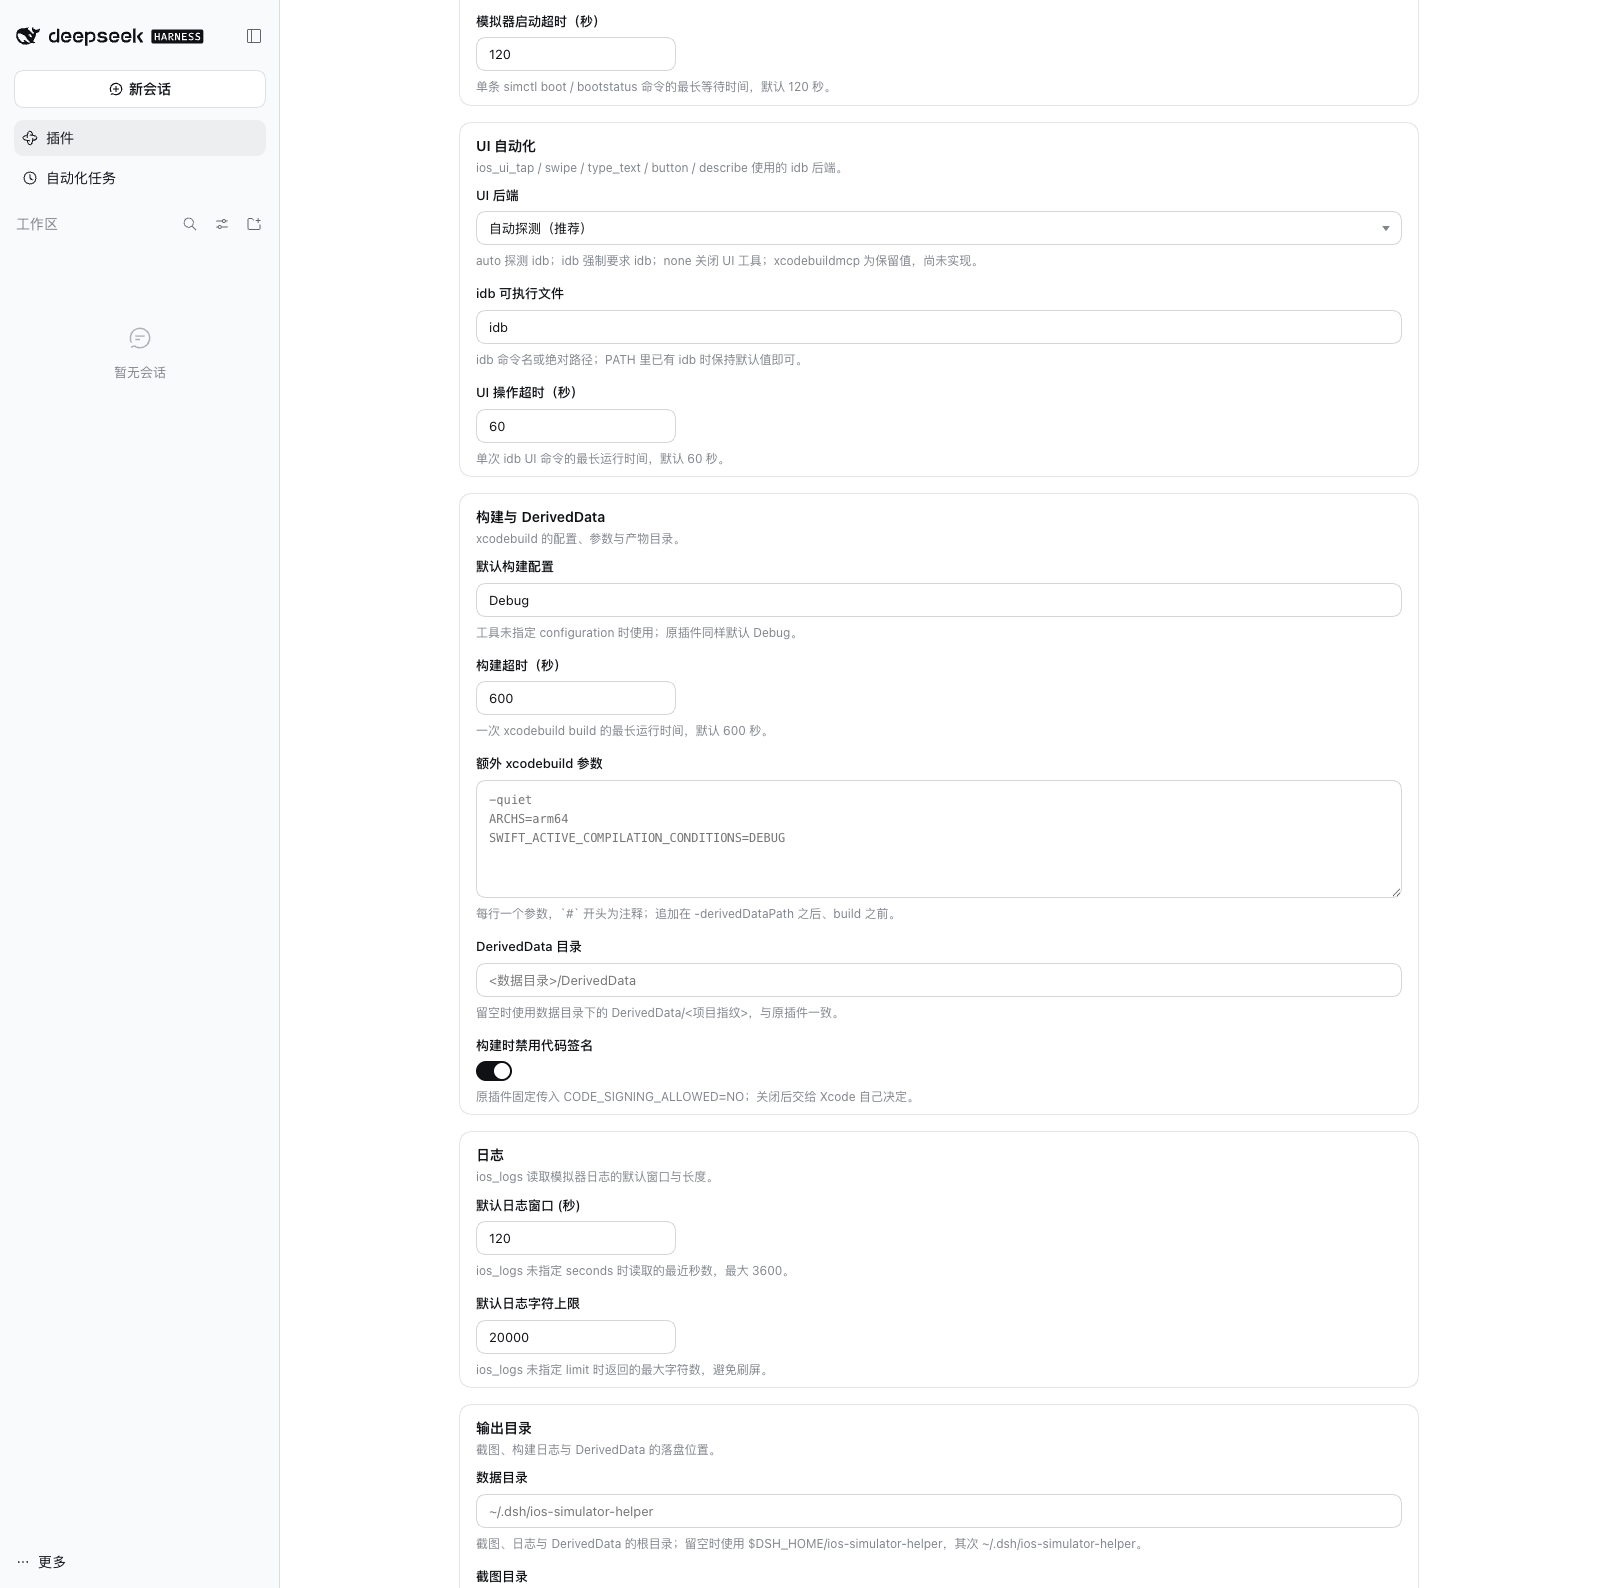
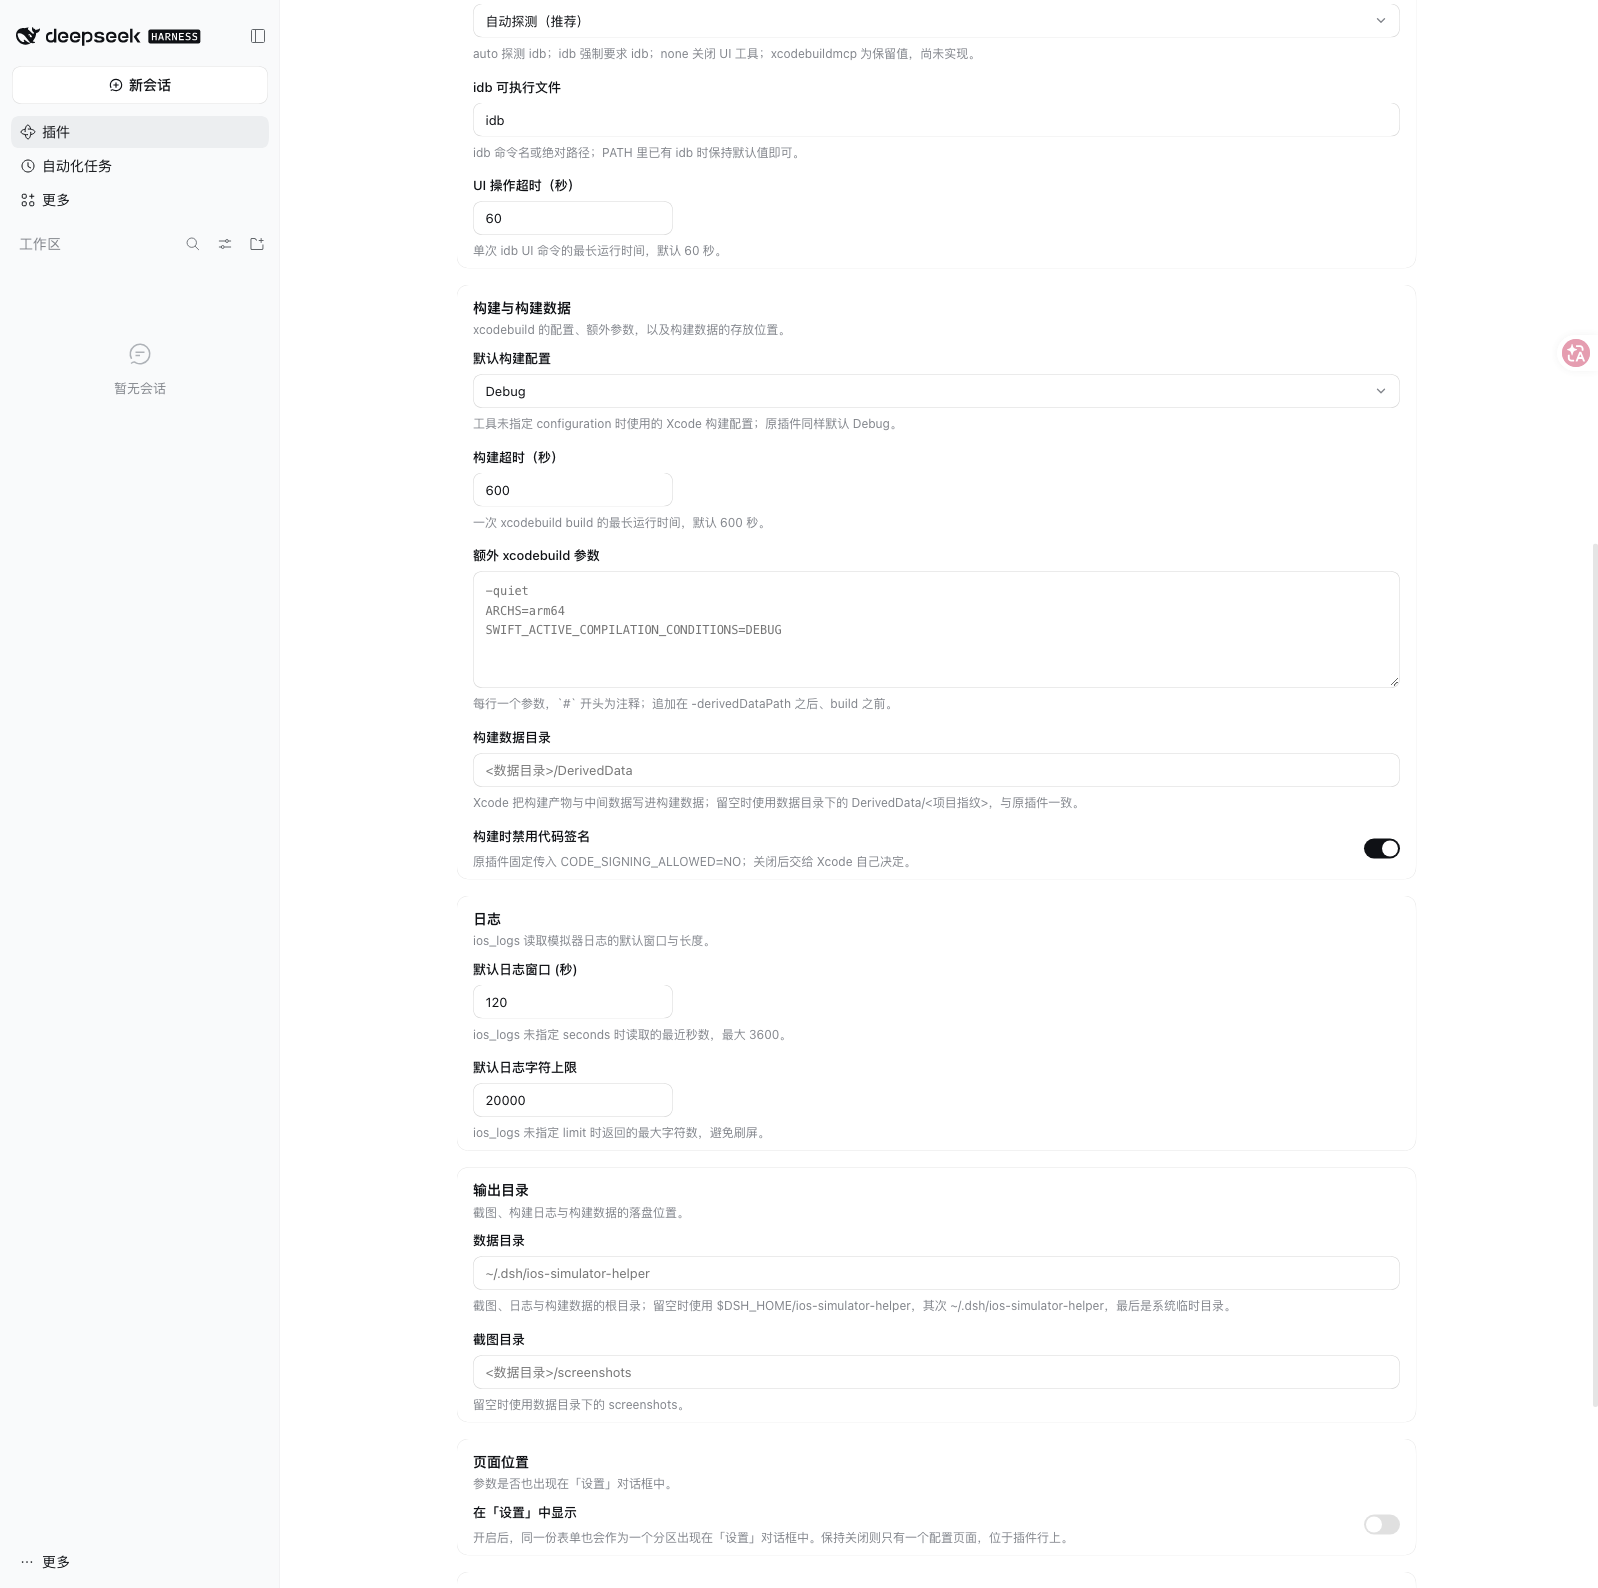
docs: recapture the marketplace screenshots from the row's page
The four shots still showed the form inside the bundle's detail view and predated both the move to the plugin row's own page and the one-simulator-at-a-time switch. The market reads the README and its screenshots as claims, so a stale page is a regression.\n\n- Boot a fresh, isolated DSH 0.2.2-rc.5 web instance with this plugin linked, open the row's Configure page in the Chinese locale, and recapture the four scroll positions at 1598x1588.\n- Refresh both READMEs: name the version and the row's page, drop the stale 'predate the move' note, and describe the card contents the shots now show.\n\nVerified: pnpm run check all green -- 250 tests, bundle consistency, the real mount, the type gate; the manifest screenshot test confirms the four paths exist inside the repository.

diff --git a/README.md b/README.md
@@ -135,25 +135,23 @@ The original plugin's `userConfig` (`default_device`, `ui_backend`) and its envi
 
 ## Screenshots
 
-All four are the live page in DSH harness 0.2.1-rc.2, in the order you scroll it — nothing is mocked up. They show the 1.1.0 card layout and the timeouts in whole seconds; the save bar only appears while an edit is staged, so it is not in these shots. The window ran the Chinese locale, so the card headings are Chinese while every field name is the same in both languages.
-
-> These shots predate the move to the plugin row's own page: they show the form inside the bundle's detail view, which is where it used to render. The page itself — the cards, the fields and the save bar — is unchanged; only where it opens has moved. They will be re-captured from the row's **Configure** page.
+All four are the live page in DSH harness 0.2.2-rc.5, in the order you scroll it — nothing is mocked up. They show the current card layout and the timeouts in whole seconds; the save bar only appears while an edit is staged, so it is not in these shots. The window ran the Chinese locale, so the card headings are Chinese while every field name is the same in both languages. The form is on the plugin row's own page, opened through the row's **Configure** control.
 
 **1. Simulator and device** — the plugin heading and description, then the fields every `ios_*` call reads:
 
-![The iOS Simulator Helper page in the Plugins panel: the plugin title, version and description, then the simulator-and-device card with the default device, default runtime, auto boot, auto open and the boot timeout](https://raw.githubusercontent.com/zhz8888/dsh-ios-simulator-helper/main/assets/settings-page-1-simulator-and-device.png)
+![The iOS Simulator Helper configuration page: the plugin title and description, then the simulator-and-device card with the default device, default runtime, auto boot, the one-simulator-at-a-time rule, auto open and the boot timeout](https://raw.githubusercontent.com/zhz8888/dsh-ios-simulator-helper/main/assets/settings-page-1-simulator-and-device.png)
 
 **2. UI automation and builds** — the `idb` backend and its timeout, then the `xcodebuild` configuration, build timeout and extra arguments:
 
-![The form scrolled to UI automation and build settings: UI backend, idb binary, UI timeout, default configuration, build timeout and the extra xcodebuild arguments](https://raw.githubusercontent.com/zhz8888/dsh-ios-simulator-helper/main/assets/settings-page-2-ui-automation-and-build.png)
+![The form scrolled to UI automation and build settings: UI backend, idb binary, UI timeout, default configuration, build timeout, the extra xcodebuild arguments, the DerivedData directory and the code-signing switch](https://raw.githubusercontent.com/zhz8888/dsh-ios-simulator-helper/main/assets/settings-page-2-ui-automation-and-build.png)
 
-**3. Build tail and logs** — the DerivedData directory and the code-signing switch, then the `ios_logs` window and character limit, and the start of the output directories:
+**3. Logs and output directories** — the `ios_logs` window and character limit, then where screenshots, logs and DerivedData land:
 
-![The form scrolled further: the DerivedData directory and code signing during builds, then the default log window and character limit, and the start of the data and screenshot directories](https://raw.githubusercontent.com/zhz8888/dsh-ios-simulator-helper/main/assets/settings-page-3-logs-and-output.png)
+![The form scrolled further: the default log window and character limit, then the data and screenshot directories](https://raw.githubusercontent.com/zhz8888/dsh-ios-simulator-helper/main/assets/settings-page-3-logs-and-output.png)
 
-**4. Output directories and the host check** — where screenshots, logs and DerivedData land, then the macOS verdict with the two detection buttons:
+**4. Page location and the host check** — whether the form also appears in Settings, then the macOS verdict with the two detection buttons:
 
-![The bottom of the form: the data and screenshot directories, then the host check reading "macOS — supported (darwin/arm64)" with the run-diagnostic and refresh buttons](https://raw.githubusercontent.com/zhz8888/dsh-ios-simulator-helper/main/assets/settings-page-4-host-check.png)
+![The bottom of the form: the page-location switch, then the host check reading "macOS — supported (darwin/arm64)" with the run-diagnostic and refresh buttons and the discovered Xcode, runtime and device summary](https://raw.githubusercontent.com/zhz8888/dsh-ios-simulator-helper/main/assets/settings-page-4-host-check.png)
 
 `screenshots.json` lists these four files in this order next to `package.json` in the repository, which is how a plugin market finds them.
 

diff --git a/README.zh-CN.md b/README.zh-CN.md
@@ -135,25 +135,23 @@ dsh plugin --profile <profile> add @zhz8888/dsh-ios-simulator-helper \
 
 ## 截图
 
-四张都是 DSH harness 0.2.1-rc.2 里这份代码跑起来的真实页面，按从上到下的滚动顺序排列，没有做图。展示的是 1.1.0 的卡片式布局与按整秒填写的超时；保存操作条只在有暂存改动时出现，因此这几张里看不到它。截图时窗口用的是中文界面，卡片标题为中文，字段名两种语言一致。
-
-> 这几张截图早于「移到插件行自己的页面」这次改动：它们展示的是表单渲染在 bundle 详情页里的旧位置。页面本身——卡片、字段与保存栏——没有变化，变化的只是打开位置。稍后会从该行的 **Configure** 页面重新截图。
+四张都是 DSH harness 0.2.2-rc.5 里这份代码跑起来的真实页面，按从上到下的滚动顺序排列，没有做图。展示的是当前的卡片式布局与按整秒填写的超时；保存操作条只在有暂存改动时出现，因此这几张里看不到它。截图时窗口用的是中文界面，卡片标题为中文，字段名两种语言一致。表单位于插件行自己的页面，由该行的**配置**入口打开。
 
 **1. 模拟器与设备** —— 插件标题与描述，以及每次 `ios_*` 调用都会读取的字段：
 
-![「插件」页里的 iOS 模拟器助手：插件标题、版本与描述，接着是模拟器与设备卡片，含默认设备、默认运行时、自动启动、自动打开窗口与启动超时](https://raw.githubusercontent.com/zhz8888/dsh-ios-simulator-helper/main/assets/settings-page-1-simulator-and-device.png)
+![iOS 模拟器助手配置页：插件标题与描述，接着是模拟器与设备卡片，含默认设备、默认运行时、自动启动、同时只运行一台模拟器、自动打开窗口与启动超时](https://raw.githubusercontent.com/zhz8888/dsh-ios-simulator-helper/main/assets/settings-page-1-simulator-and-device.png)
 
 **2. UI 自动化与构建** —— `idb` 后端与其超时，接着是 `xcodebuild` 的配置、构建超时与额外参数：
 
-![表单滚动到 UI 自动化与构建分组：UI 后端、idb 可执行文件、UI 操作超时、默认构建配置、构建超时与额外 xcodebuild 参数](https://raw.githubusercontent.com/zhz8888/dsh-ios-simulator-helper/main/assets/settings-page-2-ui-automation-and-build.png)
+![表单滚动到 UI 自动化与构建分组：UI 后端、idb 可执行文件、UI 操作超时、默认构建配置、构建超时、额外 xcodebuild 参数、构建数据目录与构建时禁用代码签名](https://raw.githubusercontent.com/zhz8888/dsh-ios-simulator-helper/main/assets/settings-page-2-ui-automation-and-build.png)
 
-**3. 构建尾部与日志** —— 构建数据目录与代码签名开关，接着是 `ios_logs` 的窗口与字符上限，以及输出目录的开头：
+**3. 日志与输出目录** —— `ios_logs` 的窗口与字符上限，以及截图/日志/构建数据的落盘位置：
 
-![表单继续向下滚动：构建数据目录、构建时禁用代码签名，接着是默认日志窗口与默认日志字符上限，以及数据目录与截图目录的开头](https://raw.githubusercontent.com/zhz8888/dsh-ios-simulator-helper/main/assets/settings-page-3-logs-and-output.png)
+![表单继续向下滚动：默认日志窗口与默认日志字符上限，接着是数据目录与截图目录](https://raw.githubusercontent.com/zhz8888/dsh-ios-simulator-helper/main/assets/settings-page-3-logs-and-output.png)
 
-**4. 输出目录与宿主检测** —— 截图/日志/构建数据的落盘位置，然后是 macOS 判定与两个检测按钮：
+**4. 页面位置与宿主检测** —— 表单是否也出现在「设置」中，然后是 macOS 判定与两个检测按钮：
 
-![表单底部：数据目录与截图目录，以及宿主系统判定为「macOS —— 符合要求（darwin/arm64）」与检测环境、刷新模拟器两个按钮](https://raw.githubusercontent.com/zhz8888/dsh-ios-simulator-helper/main/assets/settings-page-4-host-check.png)
+![表单底部：页面位置开关，以及宿主系统判定为「macOS —— 符合要求（darwin/arm64）」与检测环境、刷新模拟器两个按钮和探测出的 Xcode、运行时与设备摘要](https://raw.githubusercontent.com/zhz8888/dsh-ios-simulator-helper/main/assets/settings-page-4-host-check.png)
 
 `screenshots.json` 就在仓库里的 `package.json` 旁边按这个顺序列出四张图，插件市场据此展示。
 
